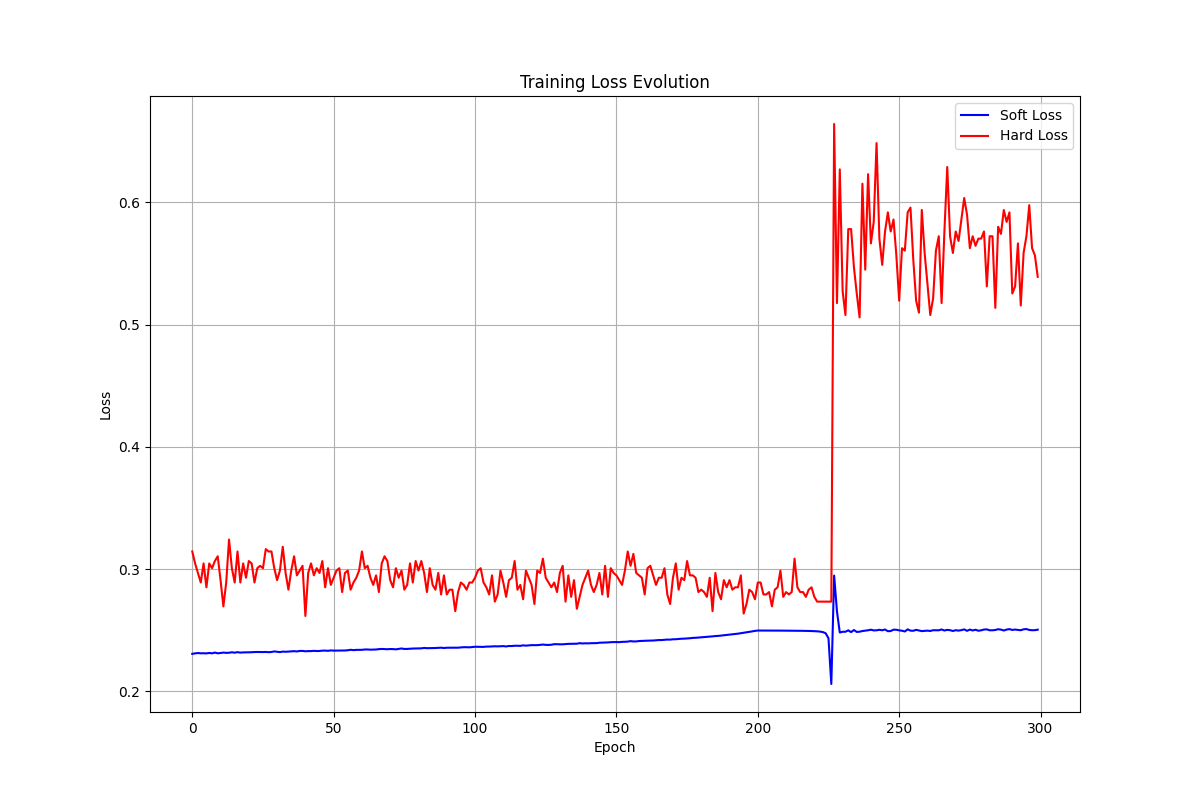
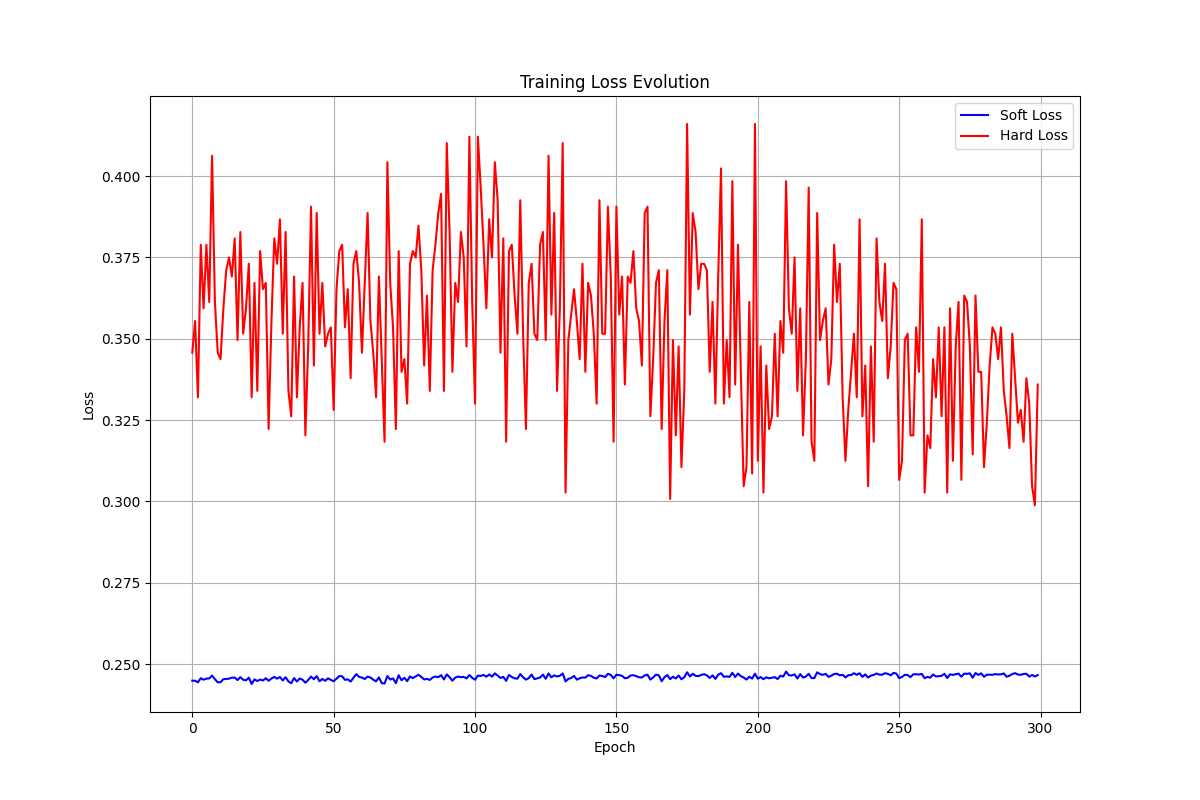
Modularisation success

diff --git a/train_optimized.py b/train_optimized.py
@@ -240,7 +240,7 @@ def train_gol_model(epochs=200, learning_rate=0.001, batch_size = 64, temperatur
     # Initialize loss tracker
     loss_tracker = LossTracker()
     
-    min_temperature = 0.2    # Don't go below this
+    min_temperature = 0.5    # Don't go below this
     min_learning_rate = 0.001
 
     print(f"Training for {epochs} epochs...")
@@ -261,18 +261,18 @@ def train_gol_model(epochs=200, learning_rate=0.001, batch_size = 64, temperatur
             
             # Slower initial learning rate with gradual increase 
             # or should it be learning rate decay ??
-            current_learning_rate = learning_rate * (1.0 - epoch / (epochs * 1.5)) # Decay over 150% of training
+            current_learning_rate = learning_rate * (1.0 - (epoch / epochs) * 0.8) # Decay 
             current_learning_rate = max(current_learning_rate, min_learning_rate)  # Cap at 0.001         
 
             # Calculate decaying temperature
             current_temperature = max(
-                temperature * (1.0 - epoch / (epochs * 1.5)),  # Decay over 150% of training
+                temperature * (1.0 - epoch / epochs),  # Decay 
                 min_temperature
             )
 
             # Set the temperature for this epoch
             ca.set_temperature(current_temperature)
-            # Call the train_epoch method (to be implemented in Rust)
+     
             soft_loss, hard_loss = ca.train_epoch(configs, targets, current_learning_rate, epoch)                      
             
             # Update loss tracker
@@ -283,7 +283,20 @@ def train_gol_model(epochs=200, learning_rate=0.001, batch_size = 64, temperatur
                 epoch_time = time.time() - epoch_start
                 print(f"Epoch {epoch}/{epochs}: Soft Loss = {soft_loss:.6f}, Hard Loss = {hard_loss:.6f}, Time: {epoch_time:.2f}s")
                 epoch_start = time.time()
-    
+
+        print("Starting cooldown phase...")
+        cooldown_epochs = 50
+        cooldown_lr = min_learning_rate * 0.1
+        fixed_temperature = min_temperature
+
+        for epoch in range(epochs, epochs + cooldown_epochs):
+            ca.set_temperature(fixed_temperature) 
+            soft_loss, hard_loss = ca.train_epoch(configs, targets, cooldown_lr, epoch)
+            loss_tracker.update(epoch, soft_loss, hard_loss)
+            
+            if epoch % 10 == 0:
+                print(f"Cooldown {epoch-epochs}/{cooldown_epochs}: Soft Loss = {soft_loss:.6f}, Hard Loss = {hard_loss:.6f}")
+
     except AttributeError:
         print("The train_epoch method is not available. Falling back to standard training.")
         try:
@@ -325,9 +338,9 @@ def train_gol_model(epochs=200, learning_rate=0.001, batch_size = 64, temperatur
 if __name__ == "__main__":
     parser = argparse.ArgumentParser(description='Train a DiffLogic CA to learn Game of Life rules')
     parser.add_argument('--epochs', type=int, default=300, help='Number of training epochs')
-    parser.add_argument('--lr', type=float, default=0.5, help='Learning rate')
-    parser.add_argument('--batchsize', type=int, default=512, help='Batch size')
-    parser.add_argument('--tmp', type=float, default=2, help='Temperature')
+    parser.add_argument('--lr', type=float, default=0.3, help='Learning rate')
+    parser.add_argument('--batchsize', type=int, default=32, help='Batch size')
+    parser.add_argument('--tmp', type=float, default=3, help='Temperature')
     parser.add_argument('--l2', type=float, default=0.001, help='L2 regularisation strength')
     parser.add_argument('--visualize', action='store_true', help='Visualize evaluation results')
     parser.add_argument('--no-save-plot', action='store_false', dest='save_plot', help='Do not save loss plot')

diff --git a/src/lib.rs b/src/lib.rs
@@ -6,7 +6,7 @@ mod python_bindings;
 use pyo3::prelude::*;
 
 // Diagnostics helper function remains in the lib file
-fn analyze_gate_distributions(circuits: &[difflogicca::PerceptionCircuit], epoch: usize) {
+fn analyze_gate_distributions(circuits: &[circuits::PerceptionCircuit], epoch: usize) {
     if epoch % 10 != 0 {
         return;
     }
@@ -87,7 +87,7 @@ pub use logic_gates::{LogicGate, LogicOp};
 
 // The PyO3 module definition
 #[pymodule]
-fn logicars(py: Python, m: &PyModule) -> PyResult<()> {
+fn logicars(py: Python, m: &Bound<'_, PyModule>) -> PyResult<()> {
     python_bindings::register(py, m)?;
     Ok(())
 }
